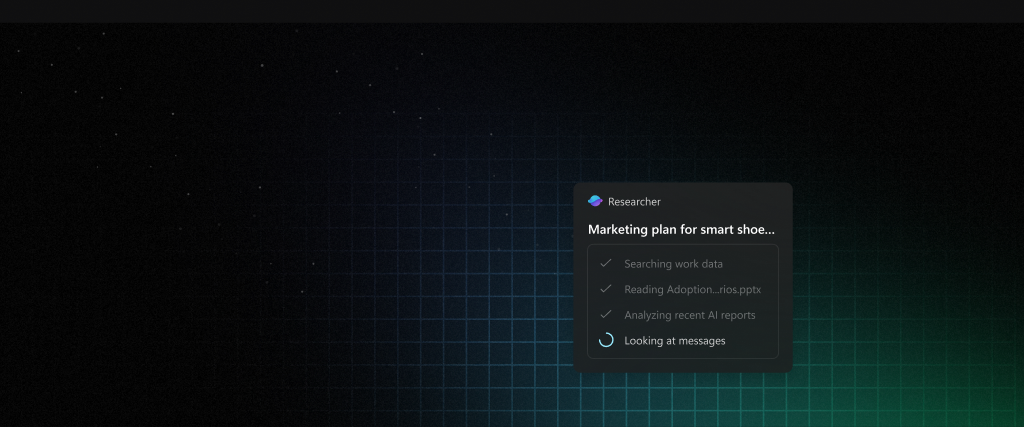
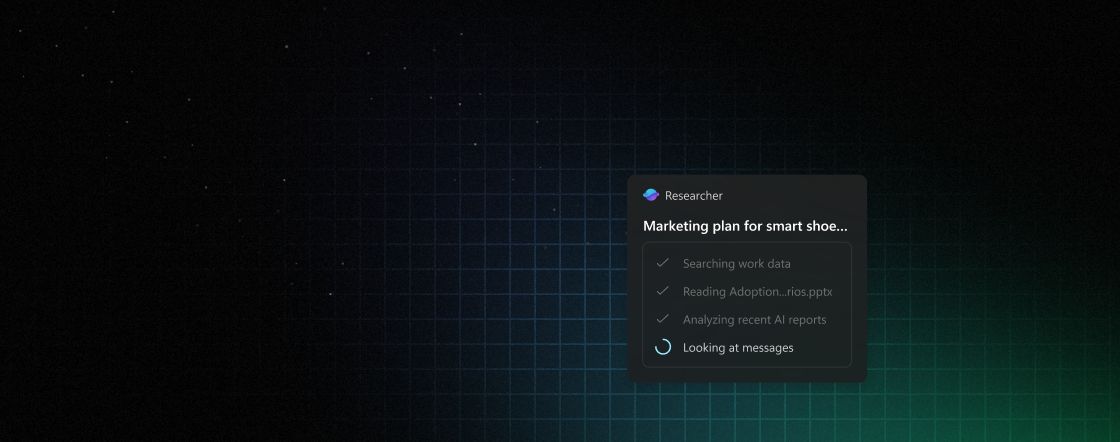
Case study heroes: swap in hi-fi composites with bottom-pinned cropping
Replace the §00 hero-demo.png on Recall, Agents in Windows, and Teams for
Education with the new 1120×442 composite renders (cosmic/grid backdrop +
in-context app mockup baked into one frame).

Render each through Figure's children slot inside an aspect-ratio container:
aspect-[16/9] mobile → aspect-[2/1] sm → aspect-[1120/442] lg, with
object-cover and object-bottom so the focal app window stays pinned to
bottom-center as sides/top crop on narrower or shorter viewports.

diff --git a/app/recall/page.tsx b/app/recall/page.tsx
@@ -80,12 +80,18 @@ export default function RecallPage() {
           <Figure
             number="0.1"
             caption="Recall on the Windows desktop — semantic search surfaced as moments, not documents"
-            src="/images/recall/hero-demo.png"
-            alt="Recall app on a Windows desktop, search results page with multiple match cards"
-            width={1024}
-            height={405}
-            priority
-          />
+          >
+            <div className="relative w-full overflow-hidden aspect-[16/9] sm:aspect-[2/1] lg:aspect-[1120/442]">
+              <Image
+                src="/images/recall/hero-demo.png"
+                alt="Recall app on a Windows desktop, search results page with multiple match cards"
+                fill
+                priority
+                sizes="(min-width: 1280px) 1024px, 100vw"
+                className="object-cover object-bottom"
+              />
+            </div>
+          </Figure>
         </section>
 
         {/* ── Spec sheet ── */}
@@ -284,14 +290,13 @@ export default function RecallPage() {
                 predictably.
               </p>
             </div>
-            <Figure
-              number="4.1"
-              caption="Card hierarchy — screenshot anchored, metadata secondary"
+            <Image
               src="/images/recall/cards-card-hierarchy.png"
               alt="Six Recall cards in a 3-by-2 grid — each anchored on a desktop screenshot with timestamp and app metadata secondary"
               width={1653}
               height={869}
-              className="my-0"
+              sizes="(min-width: 1024px) 649px, 100vw"
+              className="w-full h-auto"
             />
           </div>
         </section>

diff --git a/app/agents-in-windows/page.tsx b/app/agents-in-windows/page.tsx
@@ -41,12 +41,18 @@ export default function AgentsInWindowsPage() {
           <Figure
             number="0.1"
             caption="Researcher agent surfacing inside the Windows shell — desktop scene with grid, telemetry overlay, and taskbar entry."
-            src="/images/agents/hero-demo.png"
-            alt="Windows desktop with a Researcher agent panel showing a checklist of in-progress sub-tasks"
-            width={1024}
-            height={427}
-            priority
-          />
+          >
+            <div className="relative w-full overflow-hidden aspect-[16/9] sm:aspect-[2/1] lg:aspect-[1120/442]">
+              <Image
+                src="/images/agents/hero-demo.png"
+                alt="Windows desktop with a Researcher agent panel showing a checklist of in-progress sub-tasks"
+                fill
+                priority
+                sizes="(min-width: 1280px) 1024px, 100vw"
+                className="object-cover object-bottom"
+              />
+            </div>
+          </Figure>
         </section>
 
         {/* ── Spec sheet ── */}

diff --git a/app/teams-for-education/page.tsx b/app/teams-for-education/page.tsx
@@ -57,12 +57,18 @@ export default function TeamsForEducationPage() {
           <Figure
             number="0.1"
             caption="Microsoft Teams classroom view — students grouped at virtual tables with the moderation panel surfacing on the right"
-            src="/images/teams/hero-demo.png"
-            alt="Microsoft Teams classroom view — virtual tables of students with avatars and chat moderation panel"
-            width={1024}
-            height={405}
-            priority
-          />
+          >
+            <div className="relative w-full overflow-hidden aspect-[16/9] sm:aspect-[2/1] lg:aspect-[1120/442]">
+              <Image
+                src="/images/teams/hero-demo.png"
+                alt="Microsoft Teams classroom view — virtual tables of students with avatars and chat moderation panel"
+                fill
+                priority
+                sizes="(min-width: 1280px) 1024px, 100vw"
+                className="object-cover object-bottom"
+              />
+            </div>
+          </Figure>
         </section>
 
         {/* ── Spec sheet ── */}